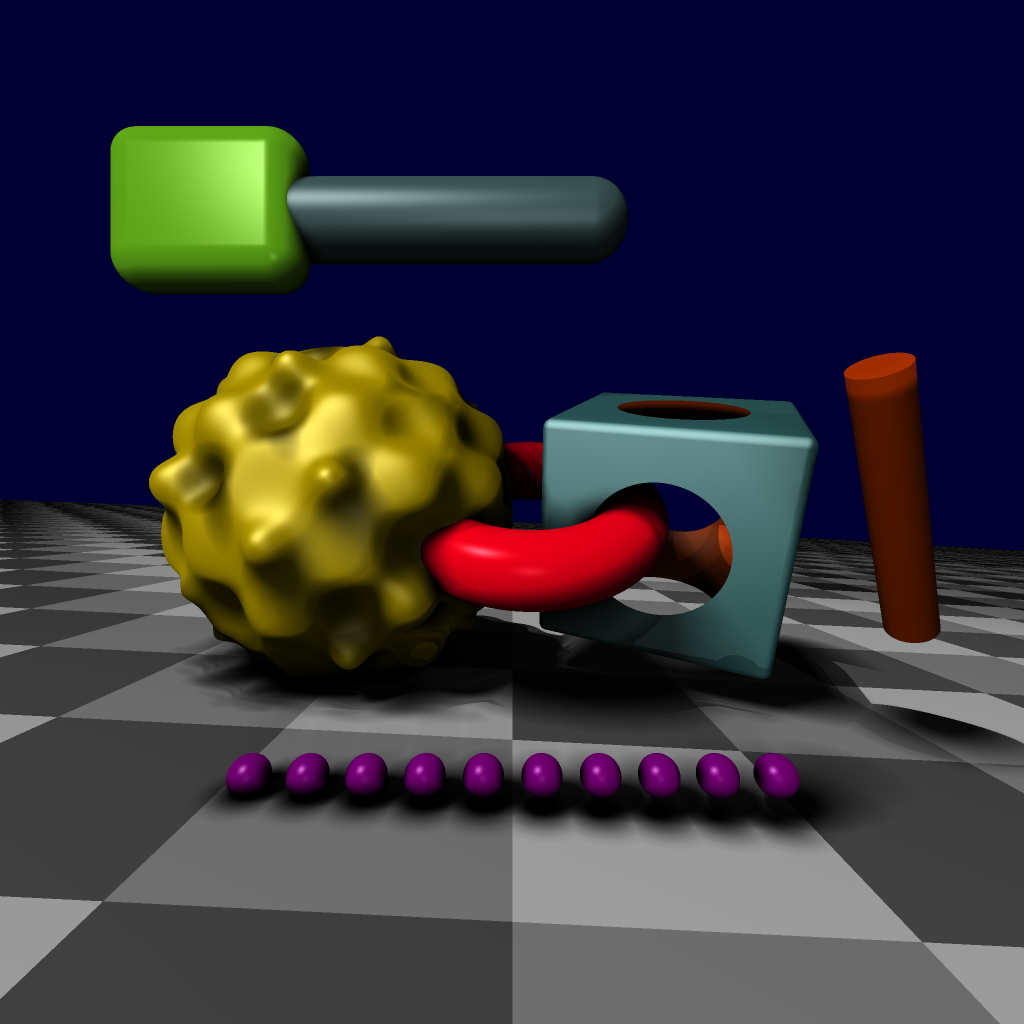
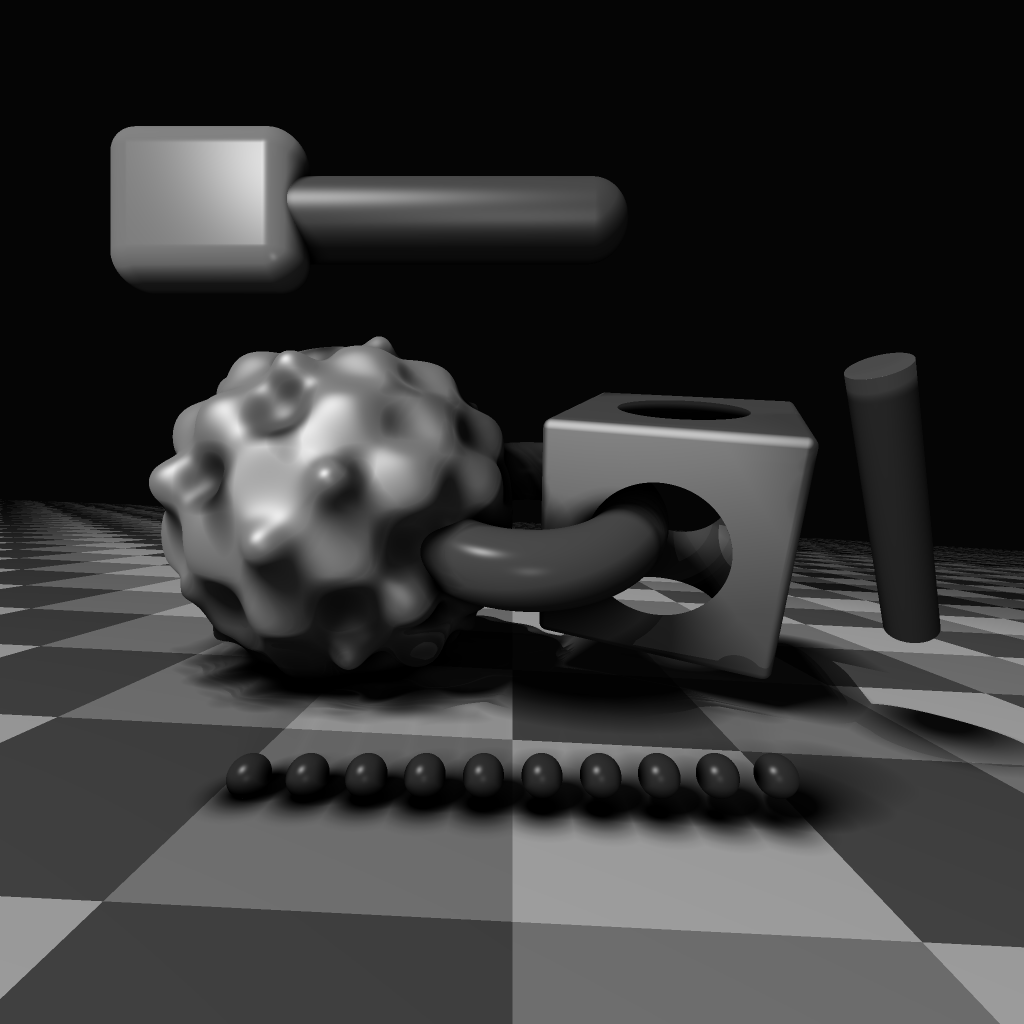
wip

diff --git a/src/march.rs b/src/march.rs
@@ -137,6 +137,7 @@ pub fn render(
             })
             .collect();
         for col in scanline {
+            let col = crate::core::grayscale(col);
             img_data.push((col.x * 255.0) as u8);
             img_data.push((col.y * 255.0) as u8);
             img_data.push((col.z * 255.0) as u8);

diff --git a/src/main.rs b/src/main.rs
@@ -130,6 +130,7 @@ fn scene1() -> Sdf {
     union(plane, sd_sphere(1.0, Vec3::new(0.0, 0.0, 0.0), I, gold))
 }
 
+// Not working yet, needs to implement the shade function: https://www.shadertoy.com/view/XcS3zK
 #[allow(dead_code)]
 fn scene2(t: f32) -> Sdf {
     fn rot(a: f32) -> Affine2 {

diff --git a/src/core.rs b/src/core.rs
@@ -41,6 +41,11 @@ impl Material {
 
 pub type MaterialFn = fn(Vec3) -> Material;
 
+pub fn grayscale(color: Vec3) -> Vec3 {
+    let c = 0.2989 * color[0] + 0.5870 * color[1] + 0.1140 * color[2];
+    v3(c)
+}
+
 pub struct Surface {
     pub sd: f32,
     pub material: Material,
